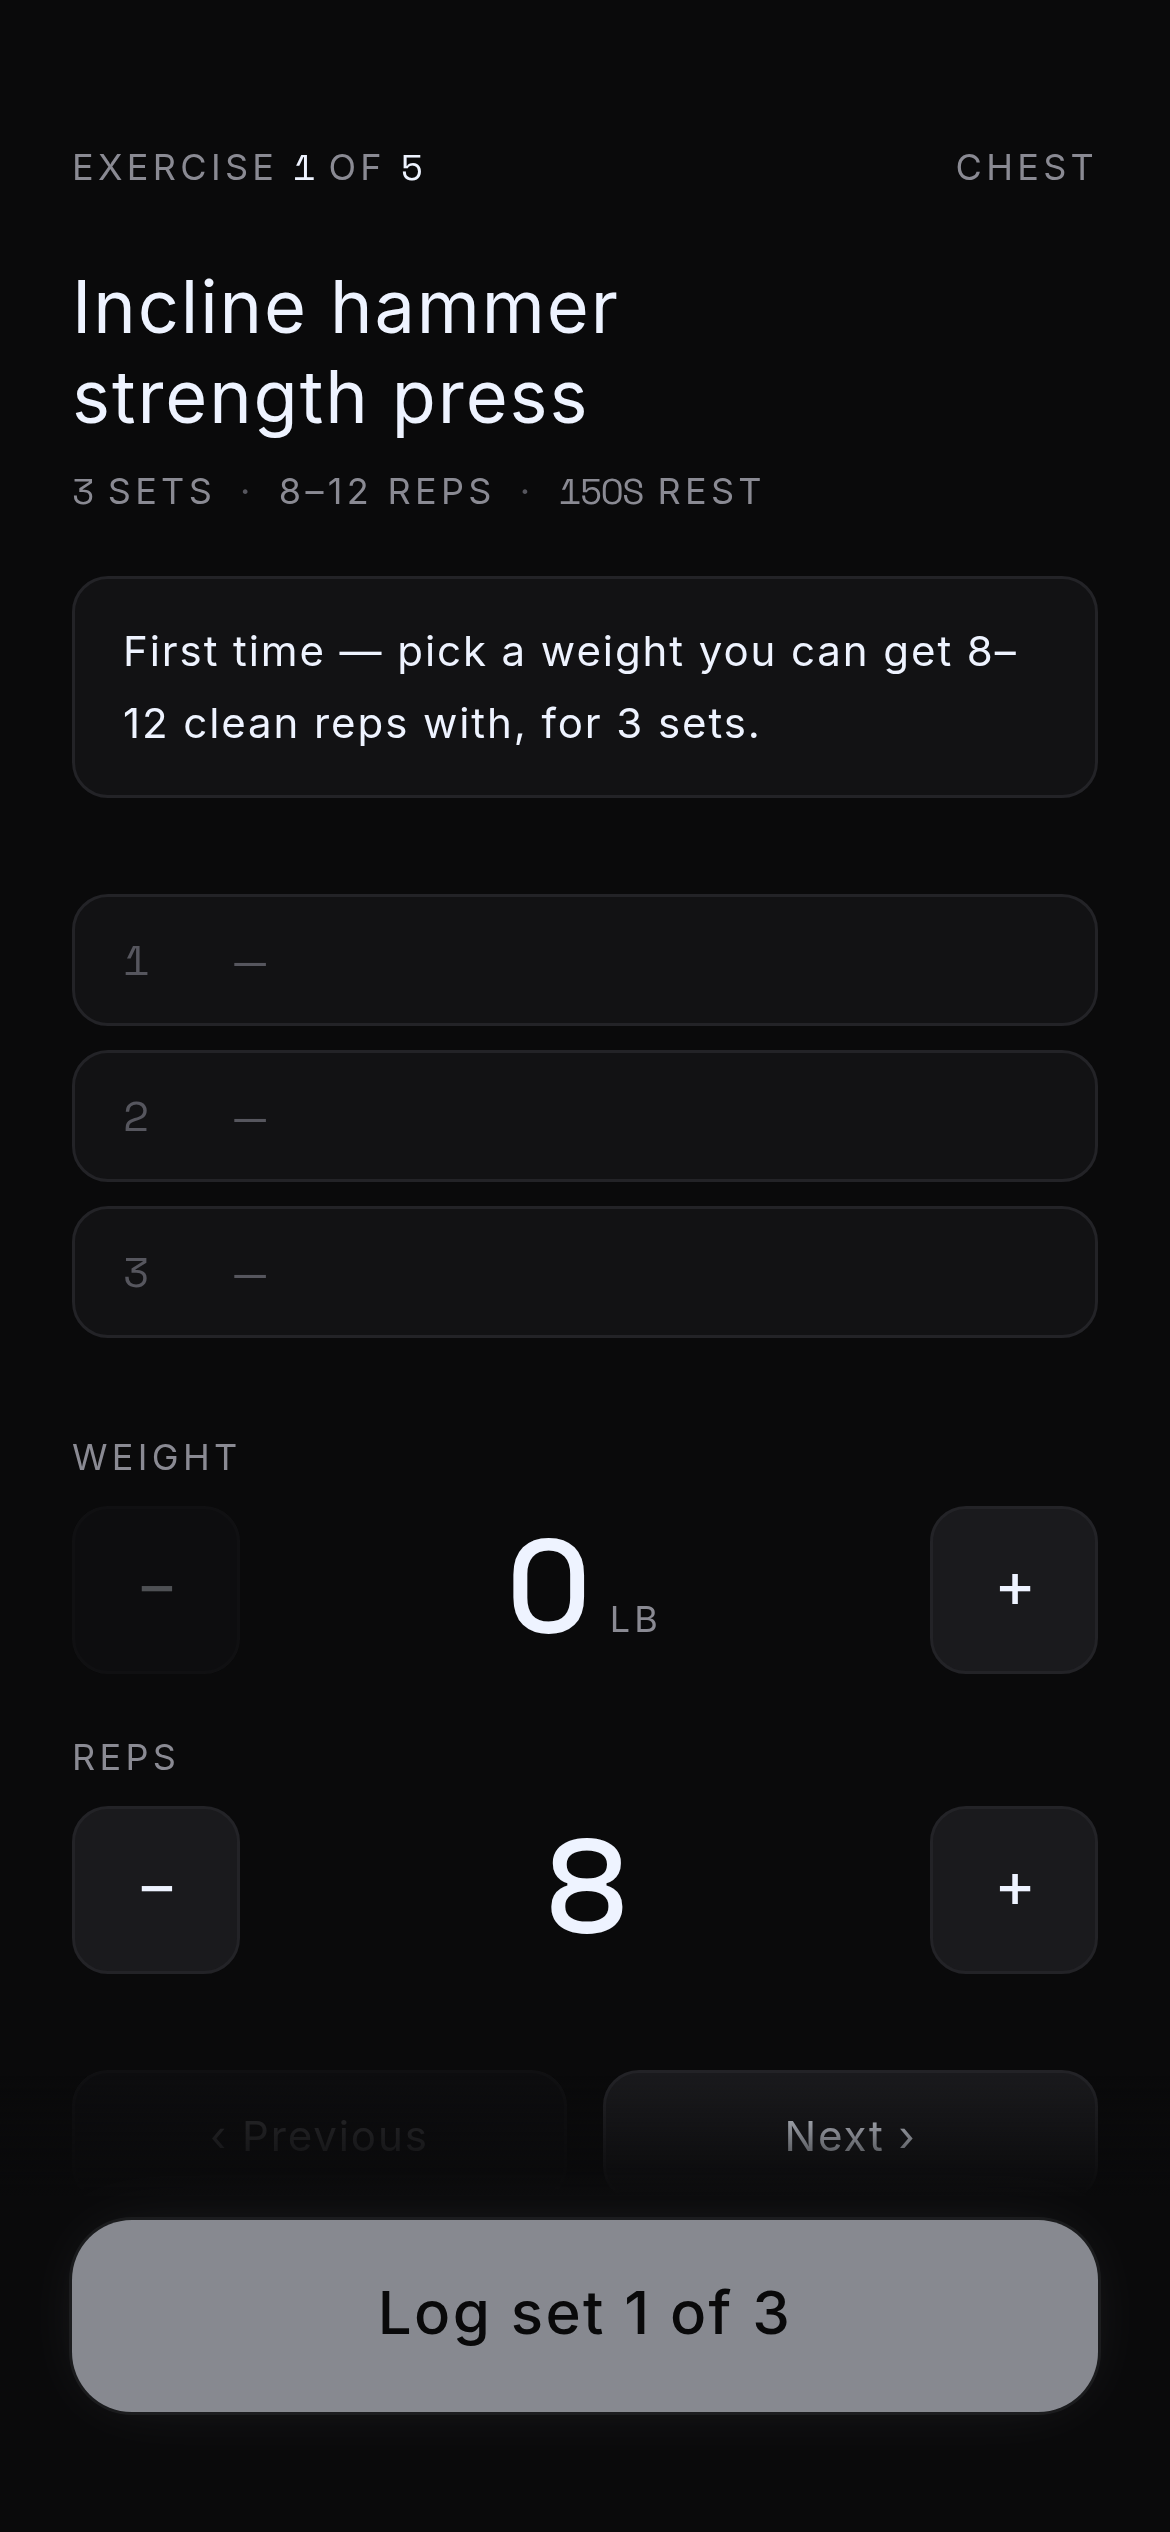
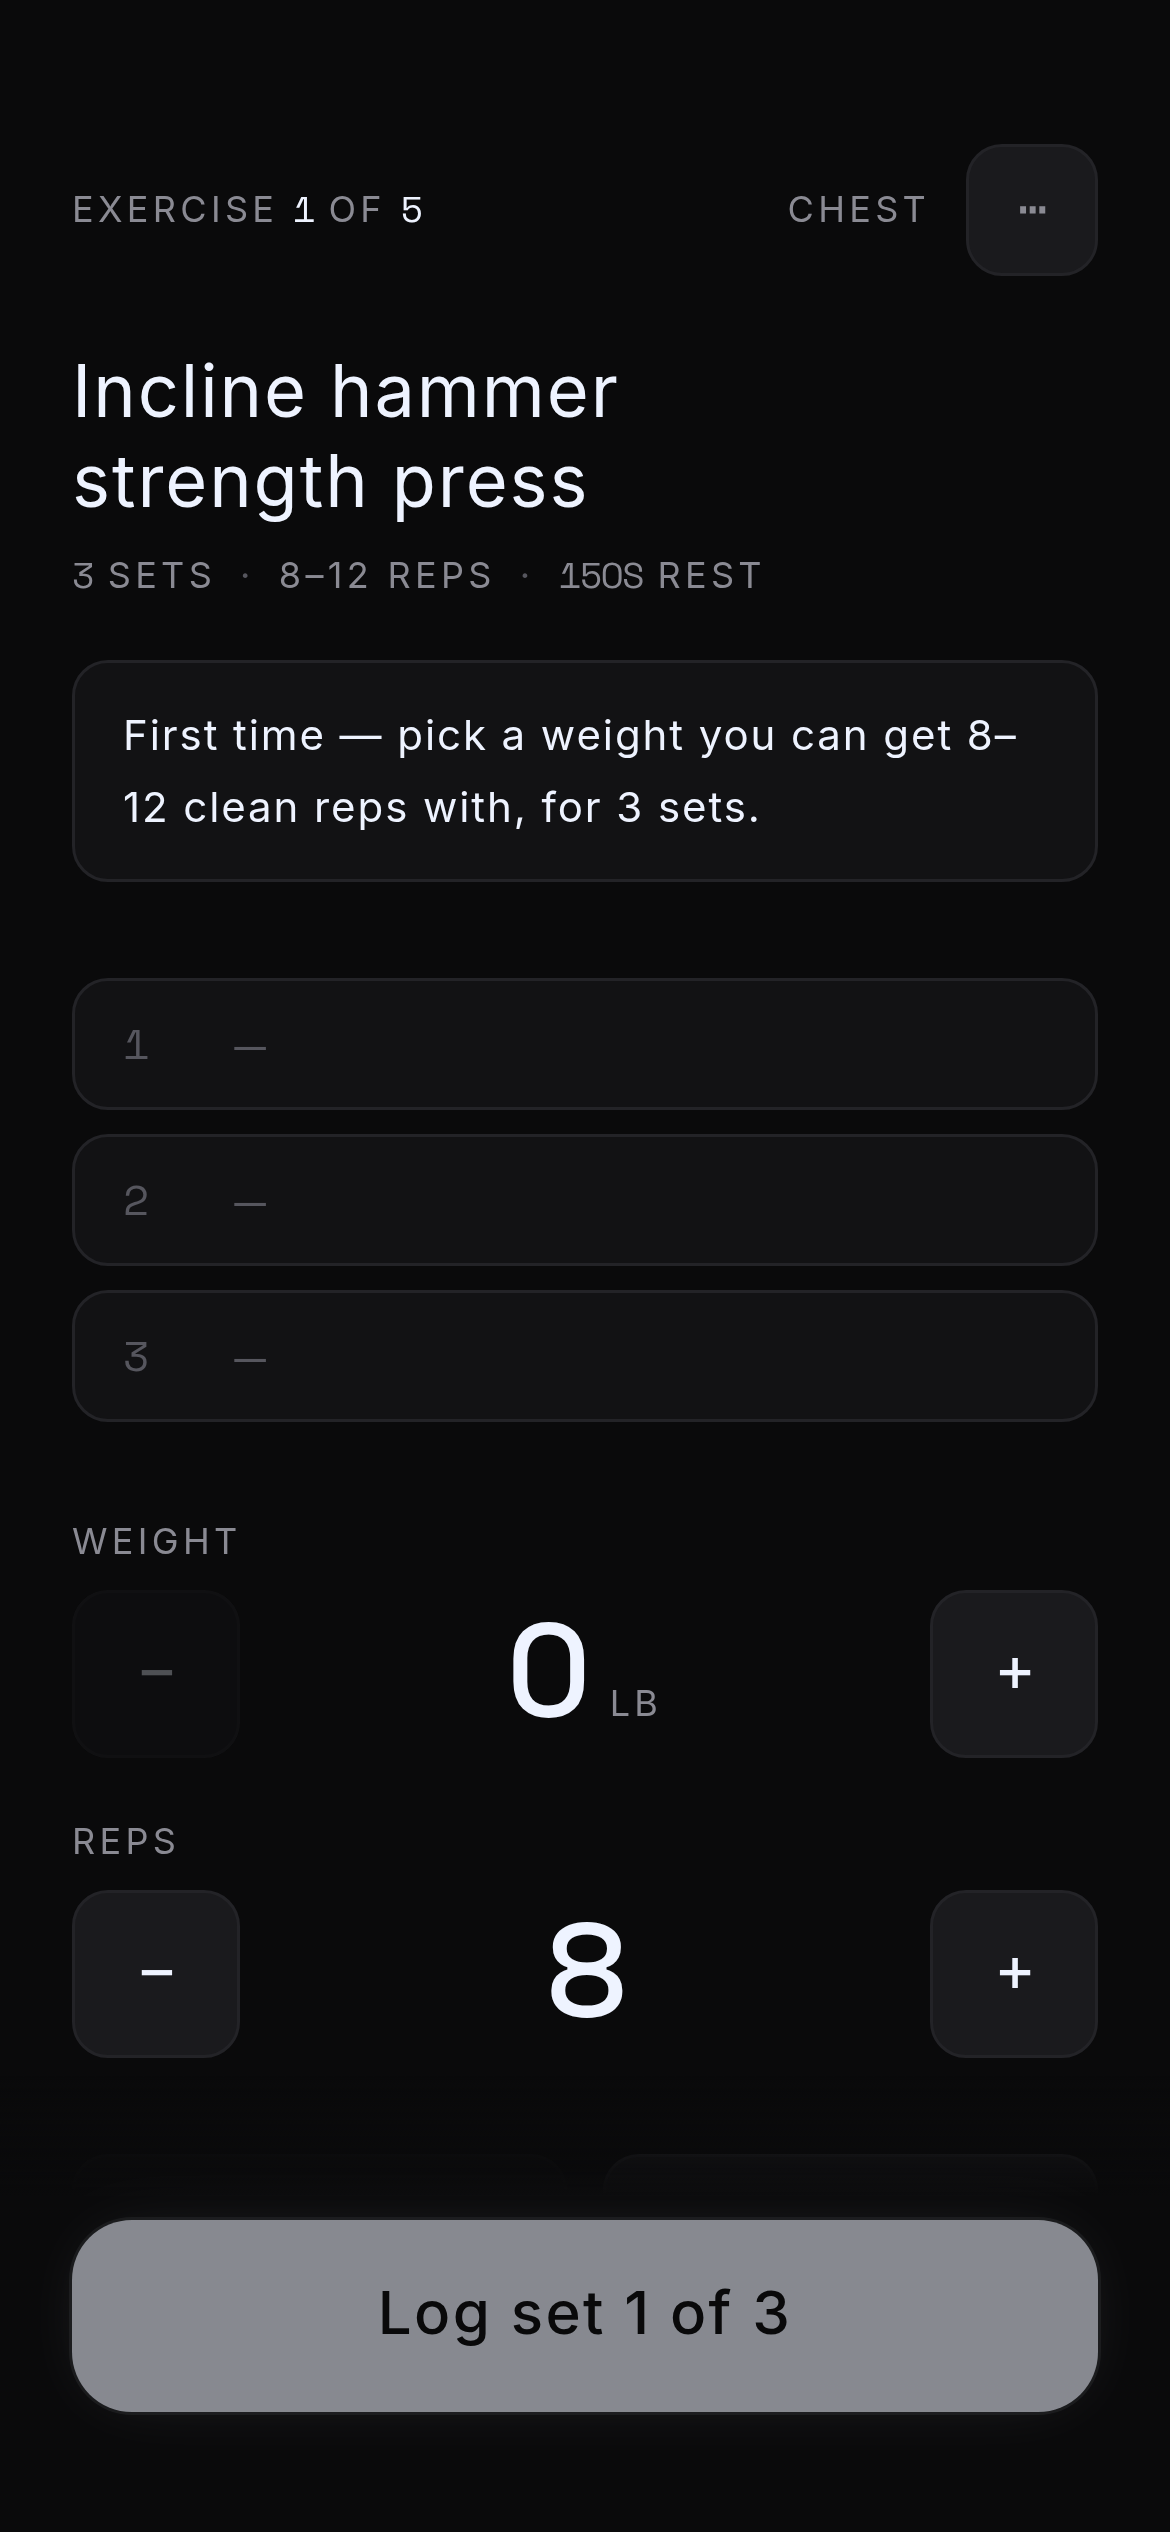
Add deliberate set control: a per-exercise menu to add or skip sets
Reported from real use: after completing a 3-set plan the button silently
offered "Log set 4" — extra sets were possible but never announced, and
ending an exercise early was impossible.

The exercise screen now carries a ⋯ menu in the top right (owner-requested
placement; an overflow menu, not a primary action):
- Add a set: grows today's plan by one. The engine's 2–5 clamp governs what
  it prescribes; a deliberate mid-session addition is the user's call.
- Skip remaining sets / Skip exercise: shrinks the plan to the sets already
  logged (possibly zero) and moves on, collecting the pump/RIR questions
  first when any work was done.

With every planned set logged, the primary action now reads "Next
exercise ›" (or "Cardio ›") instead of inviting an unprescribed set 4 —
bonus sets are always an explicit Add. Corrections-in-progress keep their
Save button. Progression is untouched by either action: the engine reads
performed sets, so skipped tails and bonus sets flow through decision A-1
naturally — asserted by a new test that a session capped at 2 sets
prescribes from 2 next time.

Browser-proven: plan-complete shows Next exercise with no Log set 4; Add a
set grows 3 → 4; Skip exercise advances without feedback questions. 151
tests, build, full proof green. Version marker to Phase 6.2.

Claude-Session: https://claude.ai/code/session_01CAbP54sosu1znVWxFPtxP3

diff --git a/src/features/session/SessionScreen.tsx b/src/features/session/SessionScreen.tsx
@@ -14,6 +14,8 @@ import {
   type SessionView,
 } from '../../db/queries'
 import {
+  addPlannedSet,
+  capPlannedSetsAtLogged,
   completeSession,
   generatePrescriptions,
   saveExerciseFeedback,
@@ -281,6 +283,9 @@ function ExercisePane({
   const nextSetIndex = sets.length
   const lastLogged = sets[sets.length - 1]
   const prevForNext = previous[nextSetIndex]
+  /** Every planned set is in the book (and nothing is mid-correction). */
+  const planDone =
+    prescription !== undefined && nextSetIndex >= prescription.plannedSets
 
   // Starting numbers, best signal first: the set just done, then the engine's
   // prescription, then last session, then the rep floor.
@@ -302,6 +307,7 @@ function ExercisePane({
   const [saving, setSaving] = useState(false)
   /** True once the user has adjusted a stepper — their number then wins. */
   const [touched, setTouched] = useState(false)
+  const [menuOpen, setMenuOpen] = useState(false)
   /**
    * A logged set being corrected: tapping its row loads it into the steppers,
    * stashing the in-progress next-set draft to restore afterwards. Tapping
@@ -395,27 +401,86 @@ function ExercisePane({
   return (
     <Screen
       action={
-        <Button onClick={() => void logSet()} disabled={saving || weight <= 0 || reps <= 0}>
-          {saving
-            ? 'Saving…'
-            : editing
-              ? `Save set ${editing.index + 1}`
-              : prescription && nextSetIndex < prescription.plannedSets
-                ? `Log set ${nextSetIndex + 1} of ${prescription.plannedSets}`
-                : `Log set ${nextSetIndex + 1}`}
-        </Button>
+        planDone && !editing ? (
+          // The plan is complete: the honest action is moving on, not a
+          // silent invitation to a set nobody prescribed. Bonus sets are a
+          // deliberate "Add a set" in the ⋯ menu.
+          <Button onClick={onNext}>{isLast ? 'Cardio ›' : 'Next exercise ›'}</Button>
+        ) : (
+          <Button onClick={() => void logSet()} disabled={saving || weight <= 0 || reps <= 0}>
+            {saving
+              ? 'Saving…'
+              : editing
+                ? `Save set ${editing.index + 1}`
+                : prescription
+                  ? `Log set ${nextSetIndex + 1} of ${prescription.plannedSets}`
+                  : `Log set ${nextSetIndex + 1}`}
+          </Button>
+        )
       }
     >
       <div onTouchStart={onTouchStart} onTouchEnd={onTouchEnd} className="flex min-h-full flex-col">
-        <header className="flex items-baseline justify-between gap-4">
+        <header className="flex items-center justify-between gap-4">
           <p className="text-xs tracking-wider text-text-secondary uppercase">
             Exercise <span className="num text-text">{position + 1}</span> of{' '}
             <span className="num text-text">{total}</span>
           </p>
-          <p className="shrink-0 text-xs tracking-wider text-text-secondary uppercase">
-            {exercise.muscleGroupName}
-          </p>
+          <div className="flex items-center gap-3">
+            <p className="shrink-0 text-xs tracking-wider text-text-secondary uppercase">
+              {exercise.muscleGroupName}
+            </p>
+            {prescription ? (
+              <button
+                type="button"
+                aria-label="Exercise options"
+                onClick={() => setMenuOpen(!menuOpen)}
+                className="num min-h-touch-min min-w-touch-min rounded-md border border-border bg-surface-raised text-base text-text-secondary"
+              >
+                ⋯
+              </button>
+            ) : null}
+          </div>
         </header>
+
+        {/* The per-exercise menu (product owner request): deliberate set
+            adjustments live here rather than the app silently inviting a
+            "Log set 4" after a 3-set plan. */}
+        {menuOpen && prescription ? (
+          <>
+            <button
+              type="button"
+              aria-label="Close menu"
+              onClick={() => setMenuOpen(false)}
+              className="fixed inset-0 z-40"
+            />
+            <div
+              className="fixed right-6 z-50 flex w-56 flex-col rounded-md border border-border-strong bg-surface-raised shadow-soft"
+              style={{ top: 'calc(var(--safe-top) + var(--spacing-16))' }}
+            >
+              <button
+                type="button"
+                onClick={() => {
+                  setMenuOpen(false)
+                  void addPlannedSet(sessionId, exercise.id)
+                }}
+                className="min-h-touch-comfortable px-4 text-left text-sm text-text"
+              >
+                Add a set
+              </button>
+              <button
+                type="button"
+                disabled={sets.length >= prescription.plannedSets && sets.length > 0}
+                onClick={() => {
+                  setMenuOpen(false)
+                  void capPlannedSetsAtLogged(sessionId, exercise.id).then(onNext)
+                }}
+                className="min-h-touch-comfortable border-t border-border px-4 text-left text-sm text-text disabled:text-text-muted"
+              >
+                {sets.length === 0 ? 'Skip exercise' : 'Skip remaining sets'}
+              </button>
+            </div>
+          </>
+        ) : null}
 
         <h1 className="mt-6 text-xl leading-snug text-balance text-text">
           {exercise.name}

diff --git a/src/db/prescriptions.test.ts b/src/db/prescriptions.test.ts
@@ -2,6 +2,8 @@ import { beforeEach, describe, expect, it } from 'vitest'
 
 import { db } from './db'
 import {
+  addPlannedSet,
+  capPlannedSetsAtLogged,
   completeSession,
   generatePrescriptions,
   saveExerciseFeedback,
@@ -196,6 +198,40 @@ describe('generatePrescriptions', () => {
     expect(rx.plannedWeightLb).toBe(135) // 150 − 10%
     expect(rx.targetRir).toBe(4)
     expect(rx.loadAction).toBe('hold') // RIR 3+ ignored on a deload
+  })
+
+  it('adds and caps planned sets mid-session, without touching progression inputs', async () => {
+    const session = await startSession(MONDAY)
+    await answerSoreness(session, 'none')
+    await generatePrescriptions(session.id)
+    const template = await templateFor(session)
+    const [pressId] = template.exerciseIds
+    if (!pressId) throw new Error('no exercise')
+
+    // Add: 3 → 4.
+    await addPlannedSet(session.id, pressId)
+    expect((await prescriptionFor(session.id, pressId)).plannedSets).toBe(4)
+
+    // Two sets logged, then skip the rest: the plan shrinks to the work done.
+    await saveSet({ sessionId: session.id, exerciseId: pressId, setIndex: 0, weightLb: 185, reps: 10 })
+    await saveSet({ sessionId: session.id, exerciseId: pressId, setIndex: 1, weightLb: 185, reps: 9 })
+    await capPlannedSetsAtLogged(session.id, pressId)
+    expect((await prescriptionFor(session.id, pressId)).plannedSets).toBe(2)
+
+    // Skipping with nothing logged caps at zero — a fully skipped exercise.
+    const [, flatId] = template.exerciseIds
+    if (!flatId) throw new Error('no second exercise')
+    await capPlannedSetsAtLogged(session.id, flatId)
+    expect((await prescriptionFor(session.id, flatId)).plannedSets).toBe(0)
+
+    // The engine's next-session input is the performed sets, not the plan —
+    // complete the session and confirm Thursday bases on 2 real sets.
+    await saveExerciseFeedback(session.id, pressId, { pump: 'moderate', rir: '0', jointPain: null })
+    await completeSession(session.id, { durationMin: 45, inclinePct: 10, speedMph: 3 })
+    const thursday = await startSession('2026-08-20')
+    await answerSoreness(thursday, 'a_little')
+    await generatePrescriptions(thursday.id)
+    expect((await prescriptionFor(thursday.id, pressId)).plannedSets).toBe(2)
   })
 
   it('exposes prompts and prescriptions through the session view', async () => {

diff --git a/src/db/mutations.ts b/src/db/mutations.ts
@@ -236,6 +236,59 @@ export async function startNewMesocycle(now: Date = new Date()): Promise<void> {
   })
 }
 
+/**
+ * Adds one planned set to today's prescription for an exercise — the explicit
+ * "I want a bonus set" action. The engine's 2–5 clamp governs what it
+ * *prescribes*; a deliberate mid-session addition is the user's call.
+ */
+export async function addPlannedSet(
+  sessionId: string,
+  exerciseId: string,
+  now: Date = new Date(),
+): Promise<void> {
+  await db.transaction('rw', [db.prescriptions], async () => {
+    const rx = await db.prescriptions
+      .where('sessionId')
+      .equals(sessionId)
+      .filter((row) => row.exerciseId === exerciseId)
+      .first()
+    if (!rx) return
+    await db.prescriptions.update(rx.id, {
+      plannedSets: rx.plannedSets + 1,
+      updatedAt: now.getTime(),
+    })
+  })
+}
+
+/**
+ * Ends the exercise at however many sets are already logged: the plan shrinks
+ * to the work done (possibly zero — a fully skipped exercise). Progression is
+ * untouched by this: the engine reads what was actually performed, so next
+ * session bases on the real sets, exactly as decision A-1 intends.
+ */
+export async function capPlannedSetsAtLogged(
+  sessionId: string,
+  exerciseId: string,
+  now: Date = new Date(),
+): Promise<void> {
+  await db.transaction('rw', [db.prescriptions, db.sets], async () => {
+    const rx = await db.prescriptions
+      .where('sessionId')
+      .equals(sessionId)
+      .filter((row) => row.exerciseId === exerciseId)
+      .first()
+    if (!rx) return
+    const logged = await db.sets
+      .where('[sessionId+exerciseId]')
+      .equals([sessionId, exerciseId])
+      .count()
+    await db.prescriptions.update(rx.id, {
+      plannedSets: logged,
+      updatedAt: now.getTime(),
+    })
+  })
+}
+
 /** Records one soreness answer. Re-answering a group overwrites, not duplicates. */
 export async function saveSorenessFeedback(
   sessionId: string,

diff --git a/scripts/prove-resume.ts b/scripts/prove-resume.ts
@@ -243,7 +243,31 @@ async function main(): Promise<void> {
     await revived.getByRole('button', { name: 'Skip' }).click()
     await revived.getByRole('button', { name: 'Dismiss' }).click()
 
-    for (let i = 0; i < 4; i += 1) {
+    console.log('\nSET MENU — the plan changes deliberately, never silently')
+    check(
+      'with the plan complete, the action is Next exercise — no silent set 4',
+      (await revived.getByRole('button', { name: 'Next exercise ›' }).count()) === 1 &&
+        (await revived.getByRole('button', { name: /^Log set 4/ }).count()) === 0,
+    )
+    await revived.getByRole('button', { name: 'Next exercise ›' }).click()
+    await revived.getByText('Exercise 3 of 5').waitFor()
+
+    // Add a set from the ⋯ menu: 3 planned becomes 4.
+    await revived.getByRole('button', { name: 'Exercise options' }).click()
+    await revived.getByRole('button', { name: 'Add a set' }).click()
+    await revived.getByRole('button', { name: 'Log set 1 of 4' }).waitFor()
+    check('Add a set: the plan grows 3 → 4', true)
+
+    // Skip the whole exercise: no sets logged, so no feedback questions.
+    await revived.getByRole('button', { name: 'Exercise options' }).click()
+    await revived.getByRole('button', { name: 'Skip exercise' }).click()
+    await revived.getByText('Exercise 4 of 5').waitFor()
+    check(
+      'Skip exercise moves on without feedback questions',
+      (await revived.getByText('How was the pump?').count()) === 0,
+    )
+
+    for (let i = 0; i < 2; i += 1) {
       await revived.getByRole('button', { name: /Next ›|Cardio ›/ }).click()
     }
     await revived.getByText('Incline walk').waitFor()

diff --git a/src/lib/version.ts b/src/lib/version.ts
@@ -5,4 +5,4 @@
  * Phase 7 service worker adds another cache layer. Moves into the Settings
  * screen when that exists.
  */
-export const APP_VERSION = 'Phase 6.1'
+export const APP_VERSION = 'Phase 6.2'

diff --git a/PLAN.md b/PLAN.md
@@ -450,6 +450,21 @@ restored. A correction starts no rest timer and asks no feedback questions.
 Browser-proven: edit 200 × 8 to 200 × 7, overwritten not duplicated, action
 returns to the next set.
 
+### Interlude: deliberate set control (product owner request, from real use)
+
+The exercise screen gained a ⋯ menu in the top right with two actions: "Add
+a set" grows today's plan by one, and "Skip remaining sets" (reading "Skip
+exercise" when nothing is logged) shrinks the plan to the work already done
+and moves on — collecting the feedback questions first when sets were
+logged. With the plan complete, the primary button now honestly reads "Next
+exercise ›" instead of silently inviting a set nobody prescribed; bonus sets
+are always an explicit Add. Progression is untouched either way — the engine
+reads performed sets, so a skipped tail or an added bonus flows through
+decision A-1 naturally. Menu placement is a deliberate exception to Part
+7's top-corner rule at the owner's explicit request; it is an overflow
+menu, not a primary action. Unit-tested at the data layer and proven in the
+browser gate.
+
 ### Phase 5+6 review, and what it changed
 
 The review recomputed the deload maths, traced every block-boundary edge
